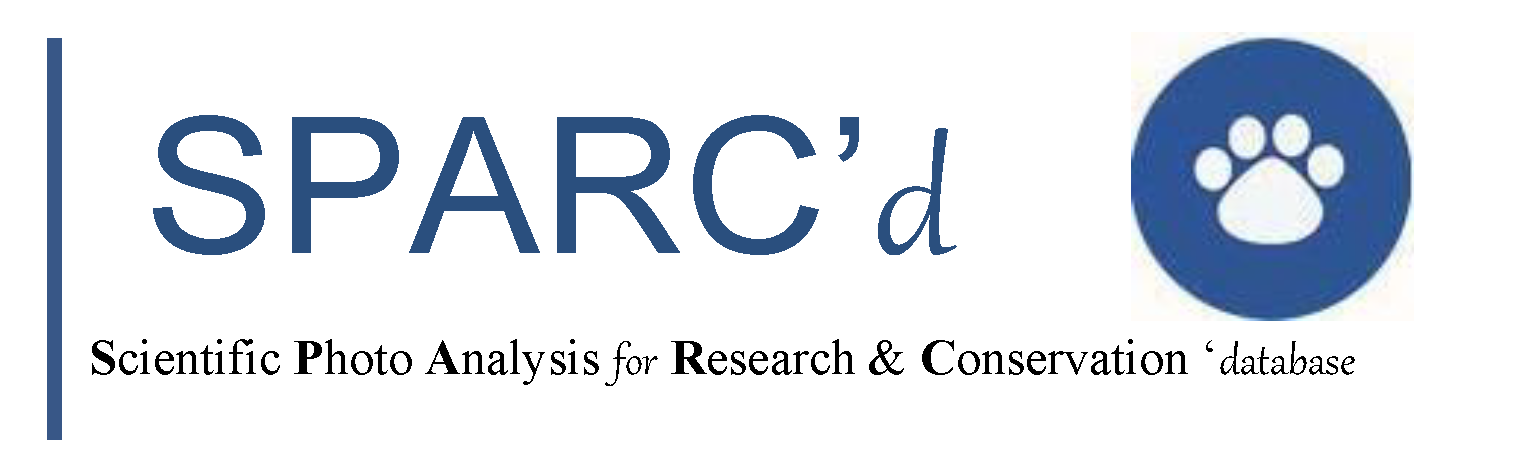
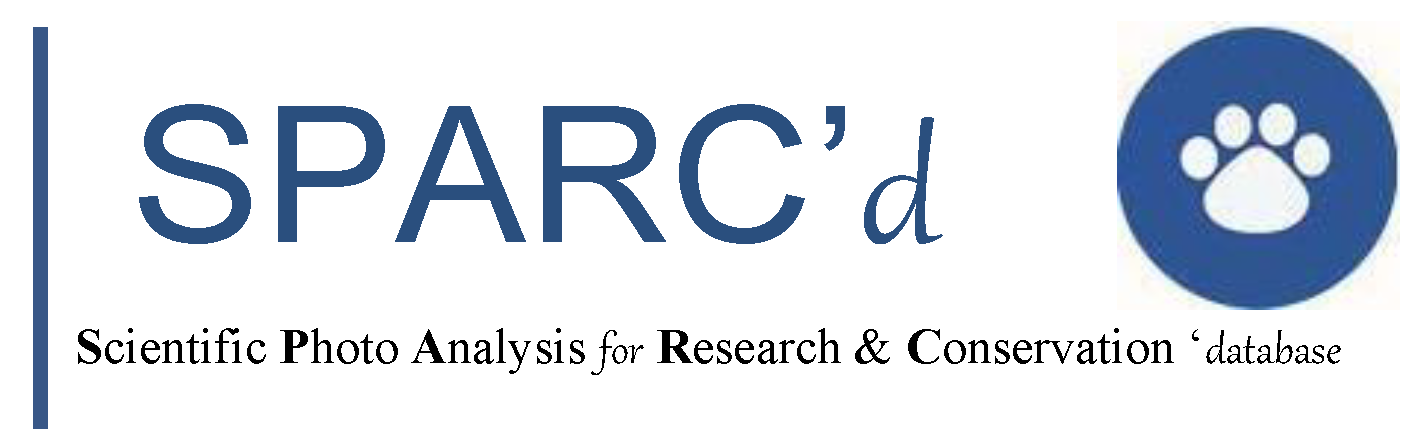
repair title and shell to reflect latest version

diff --git a/Sanimal FX/src/main/java/controller/Sanimal.java b/Sanimal FX/src/main/java/controller/Sanimal.java
@@ -43,7 +43,7 @@ public class Sanimal extends Application
         // Put the scene on the stage
         primaryStage.setScene(scene);
         primaryStage.getIcons().add(new Image("images/mainMenu/paw.png"));
-        primaryStage.setTitle("Scientific Animal Image Analysis (SANIMAL)");
+        primaryStage.setTitle("Scientific Photo Analysis for Research & Conservation database (SPARC'd)");
         // When we click exit...
         primaryStage.setOnCloseRequest(event ->
         {
